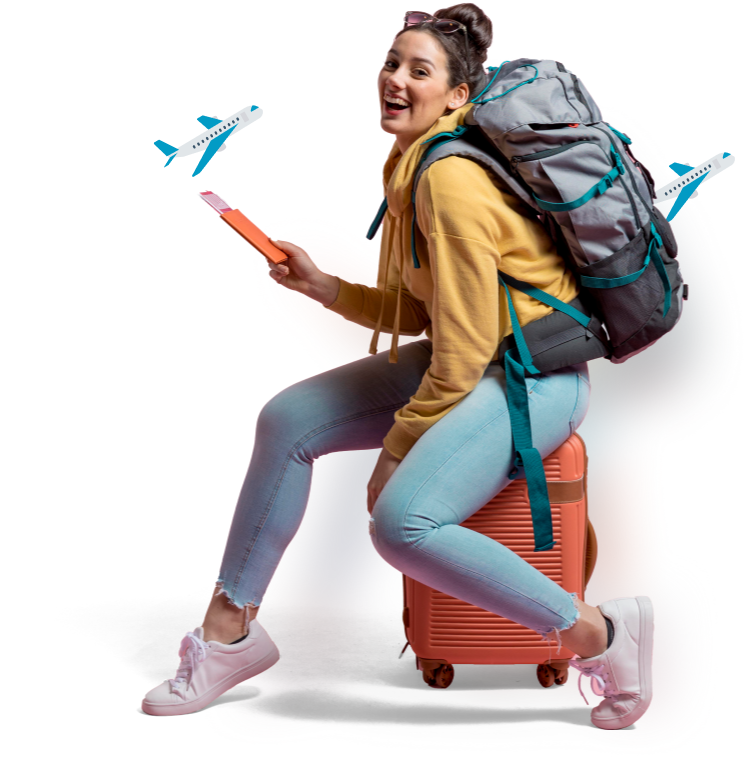
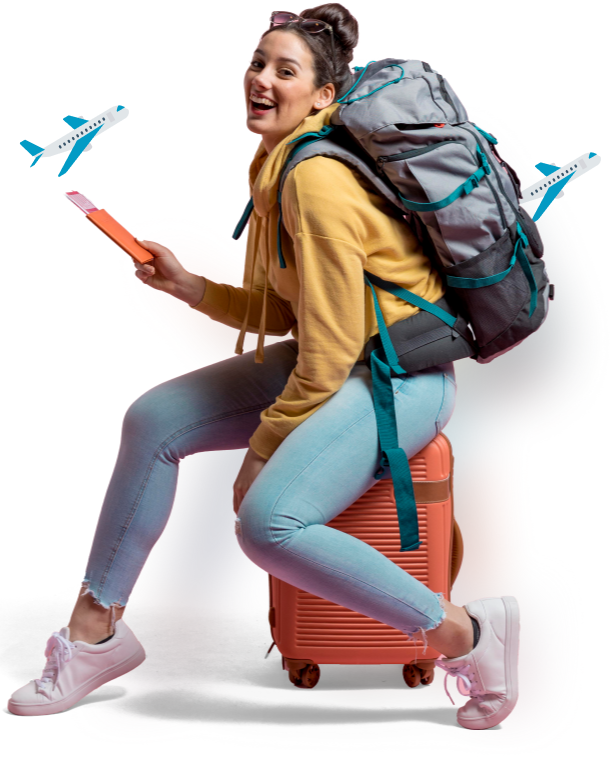
done styling main section desktop

diff --git a/src/scss/hero/base.scss b/src/scss/hero/base.scss
@@ -1,0 +1,149 @@
+.hero {
+  display: flex;
+  justify-content: space-between;
+  align-items: flex-start;
+
+  &__image {
+    width: 300px;
+    object-fit: contain;
+  }
+}
+
+.hero-content {
+  margin-top: 115px;
+  display: flex;
+  flex-direction: column;
+  align-items: flex-start;
+
+  &__tagline {
+    font-family: $main-font;
+    text-transform: uppercase;
+    font-size: 20px;
+    font-weight: 700;
+    color: #DF6951;
+  }
+
+  &__title {
+    font-family: $secondary-font;
+    font-size: 84px;
+    font-weight: 700;
+    line-height: 1.06;
+    letter-spacing: -3.36px;
+    max-width: 550px;
+    margin: 28px 0 0 0;
+  }
+
+  &__title-underline {
+    position: relative;
+
+    &::after {
+      z-index: -1;
+      left: -35px;
+      bottom: 1px;
+      position: absolute;
+      content: url("/../../../img/title-underline.png");
+    }
+  }
+
+  &__description {
+    color: #5E6282;
+    font-family: $main-font;
+    font-size: 16px;
+    font-weight: 500;
+    line-height: 1.88;
+    max-width: 475px;
+    margin: 30px 0 0 0;
+  }
+
+  &__button-wrapper {
+    display: flex;
+    gap: 38px;
+    align-items: center;
+    margin-top: 34px;
+  }
+
+  &__button-wrapper-continue {
+    border-radius: 10px;
+    box-sizing: border-box;
+    background: #F1A501;
+    box-shadow: 0 20px 35px 0 rgba(241, 165, 1, 0.15);
+    color: #ffffff;
+    font-family: $main-font;
+    border: 1px solid #F1A501;
+    font-size: 17px;
+    font-weight: 500;
+    min-width: 170px;
+    padding: 19px 10px;
+    cursor: pointer;
+    transition: $transition-config;
+
+    &:hover,
+    &:active,
+    &:focus {
+      background: #ffffff;
+      color: #F1A501;
+    }
+
+    &:focus,
+    &:active {
+      box-shadow: 0 20px 35px 3px rgba(241, 165, 1, 0.5);
+      outline: none;
+    }
+  }
+
+  &__button-wrapper-demo {
+    display: flex;
+    background: transparent;
+    border: none;
+    align-items: center;
+    cursor: pointer;
+    font-size: 17px;
+    font-weight: 500;
+    font-family: $main-font;
+    color: #686D77;
+    gap: 20px;
+
+    &:hover,
+    &:active,
+    &:focus {
+      .hero-content__button-wrapper-demo-icon-bg {
+        background: #ffffff;
+
+        svg {
+          path {
+            fill: #DF6951;
+          }
+        }
+      }
+    }
+
+    &:active,
+    &:focus {
+      outline: none;
+      .hero-content__button-wrapper-demo-icon-bg {
+        box-shadow: 0 15px 30px 3px rgba(223, 105, 81, 0.30);
+      }
+    }
+  }
+
+  &__button-wrapper-demo-icon-bg {
+    width: 52px;
+    height: 52px;
+    box-sizing: border-box;
+    border: 1px solid #DF6951;
+    border-radius: 50%;
+    background: #DF6951;
+    box-shadow: 0 15px 30px 0 rgba(223, 105, 81, 0.30);
+    display: flex;
+    align-items: center;
+    justify-content: center;
+    transition: $transition-config;
+
+    svg {
+      width: 12px;
+      path {
+        transition: $transition-config;
+      }
+    }
+  }
+}

diff --git a/index.html b/index.html
@@ -36,13 +36,33 @@
             <a href='#' class='header-navigation__list-item-link header-navigation__login-menu-item-link'>Login</a>
           </li>
           <li class='header-navigation__login-menu-item'>
-            <button class='header-navigation__login-menu-item-button'>Sign Up</button>
+            <button class='header-navigation__login-menu-item-button'>Sign up</button>
           </li>
         </ul>
         <button class='header-navigation__lang-select-button'>EN</button>
       </div>
     </header>
-    <main class='main'></main>
+    <main class='main'>
+      <section class="hero wrapper">
+        <div class="hero-content">
+          <h3 class="hero-content__tagline">Best Destinations around the world</h3>
+          <h1 class="hero-content__title">Travel, <span class="hero-content__title-underline">enjoy</span> and live a new and full life</h1>
+          <p class="hero-content__description">Built Wicket longer admire do barton vanity itself do in it. Preferred to sportsmen it engrossed listening. Park gate sell they west hard for the.</p>
+          <div class="hero-content__button-wrapper">
+            <button class="hero-content__button-wrapper-continue">Find out more</button>
+            <button class="hero-content__button-wrapper-demo">
+              <span class="hero-content__button-wrapper-demo-icon-bg">
+                <svg xmlns="http://www.w3.org/2000/svg" fill="none" viewBox="0 0 12 13">
+                  <path fill="#fff" d="M12 6.5.749999 12.9952.75.00480889 12 6.5Z"/>
+                </svg>
+              </span>
+              Play Demo
+            </button>
+          </div>
+        </div>
+        <img class="hero__image"  src="img/hero-image.png" alt="" />
+      </section>
+    </main>
     <svg class="page-wrapper__bg-object" xmlns="http://www.w3.org/2000/svg" fill="none" viewBox="0 0 709 719">
       <path fill="#FFF1DA" d="M22.3069 217c-40.4-68.8-16.8333-208.66667 0-270L701.807-154l64.5 271.5-38.5 601c-78.667 1-254.1-6.5-326.5-44.5-90.5-47.5-49.5-124-124.5-164s-32-145.5-58-185.5S72.8069 303 22.3069 217Z"/>
     </svg>

diff --git a/src/scss/index.scss b/src/scss/index.scss
@@ -2,5 +2,6 @@
 @import "variables";
 @import url('https://fonts.googleapis.com/css2?family=Poppins:wght@400;500;700&family=Volkhov:wght@700&display=swap');
 
-@import 'header/index';
 @import "base";
+@import 'header/index';
+@import "hero/index";

diff --git a/src/scss/hero/index.scss b/src/scss/hero/index.scss
@@ -1,0 +1,1 @@
+@import "base";
